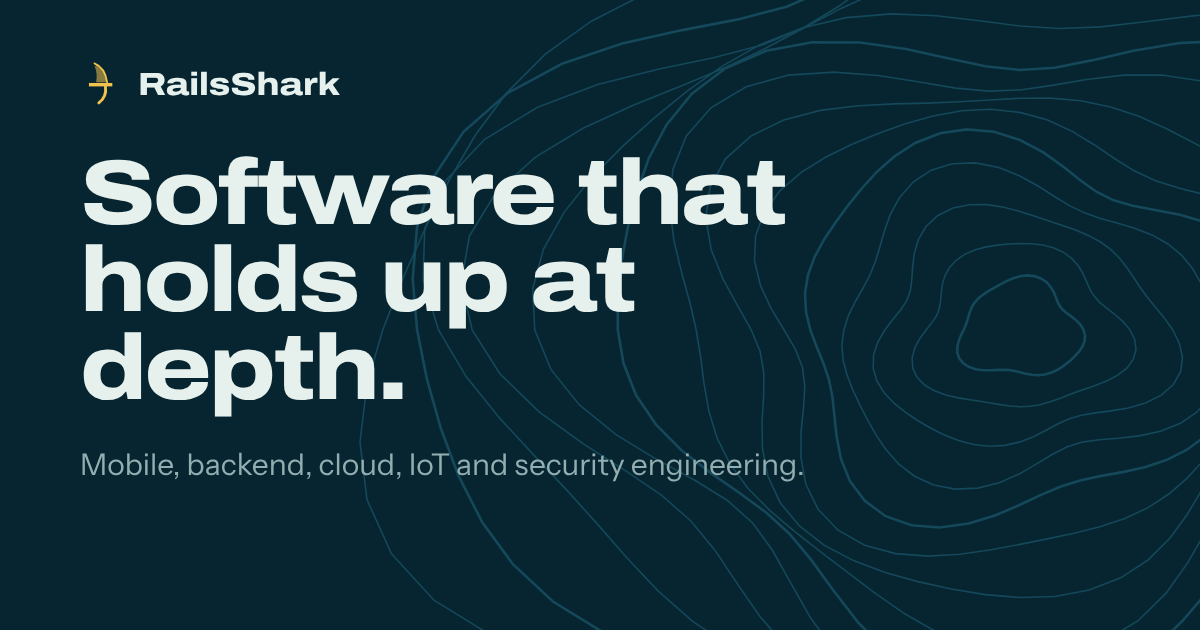
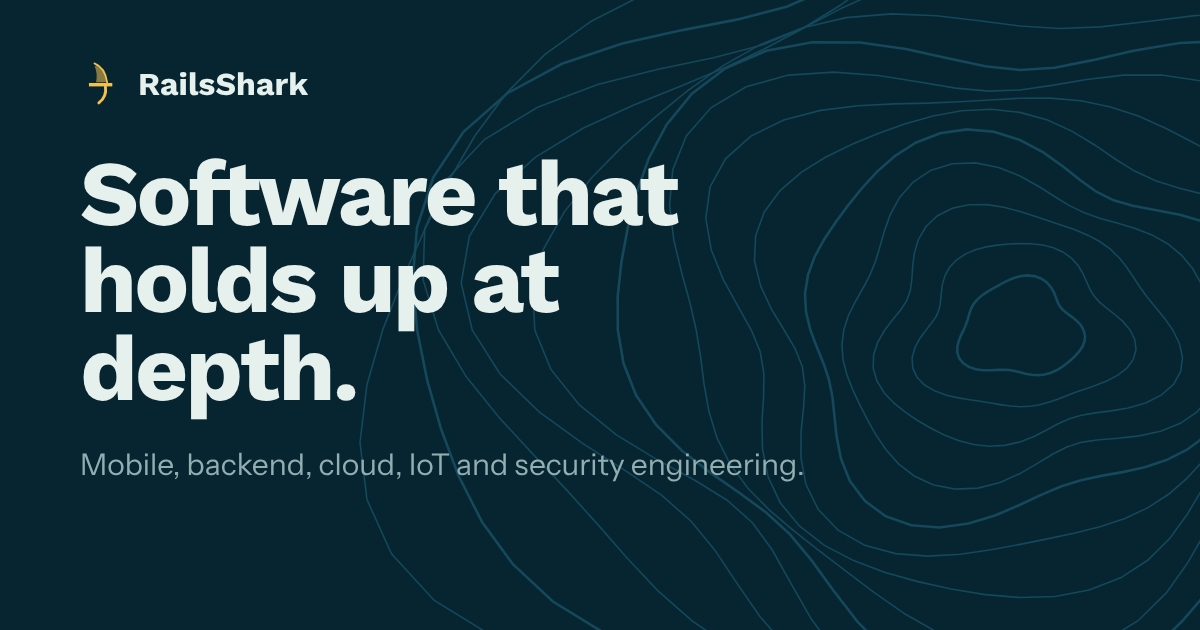
Switch to Work Sans headings and Nunito numbers, drop italics
Headings now use Work Sans 700 and the big stats and results use
Nunito 800, both self-hosted; Archivo moves to an optional design-lab
pairing. Numbers are upright everywhere. Hero, footer and meta
description now say "teams and institutions". Social preview image
regenerated in the new heading font.

Claude-Session: https://claude.ai/code/session_018bG2MKn1vgfGuHbLjA7fD8

Changed region(s): [[0.0617, 0.3921, 0.5242, 0.6635], [0.0617, 0.2413, 0.6783, 0.3619], [0.1233, 0.0905, 0.2775, 0.1508]]

diff --git a/site/src/lib/themes.ts b/site/src/lib/themes.ts
@@ -1,5 +1,5 @@
 /**
- * Design lab definitions. Production ships only the default (Abyss + Chart)
+ * Design lab definitions. Production ships only the default (Abyss + Work Sans)
  * through tokens.css; everything here is loaded only when the lab is open.
  */
 export type Mode = 'dark' | 'light';
@@ -69,18 +69,26 @@ export interface FontPair {
   /** font-stretch for display text; only variable-width families use it. */
   stretch: string;
   weight: number;
+  /** Face, stretch and weight for big numbers. */
+  figures: string;
+  figuresStretch: string;
+  figuresWeight: number;
   /** Google Fonts css2 query. Empty for the self-hosted default. */
   google: string;
 }
 
+const NUNITO = "'Nunito Variable', sans-serif";
+
 export const fontPairs: FontPair[] = [
-  { id: 'chart', name: 'Archivo Expanded + Instrument Sans', display: "'Archivo Variable', sans-serif", body: "'Instrument Sans Variable', sans-serif", stretch: '118%', weight: 800, google: '' },
-  { id: 'bricolage', name: 'Bricolage Grotesque + Instrument Sans', display: "'Bricolage Grotesque', sans-serif", body: "'Instrument Sans Variable', sans-serif", stretch: '100%', weight: 750, google: 'family=Bricolage+Grotesque:opsz,wght@12..96,400..800' },
-  { id: 'fraunces', name: 'Fraunces + Source Sans 3', display: "'Fraunces', serif", body: "'Source Sans 3', sans-serif", stretch: '100%', weight: 650, google: 'family=Fraunces:opsz,wght@9..144,400..800&family=Source+Sans+3:wght@400..700' },
-  { id: 'sora', name: 'Sora', display: "'Sora', sans-serif", body: "'Sora', sans-serif", stretch: '100%', weight: 700, google: 'family=Sora:wght@300..800' },
-  { id: 'plex', name: 'IBM Plex Sans', display: "'IBM Plex Sans', sans-serif", body: "'IBM Plex Sans', sans-serif", stretch: '100%', weight: 650, google: 'family=IBM+Plex+Sans:wght@400..700' },
-  { id: 'syne', name: 'Syne + Manrope', display: "'Syne', sans-serif", body: "'Manrope', sans-serif", stretch: '100%', weight: 800, google: 'family=Syne:wght@500..800&family=Manrope:wght@400..700' },
-  { id: 'newsreader', name: 'Newsreader + Public Sans', display: "'Newsreader', serif", body: "'Public Sans', sans-serif", stretch: '100%', weight: 600, google: 'family=Newsreader:opsz,wght@6..72,400..700&family=Public+Sans:wght@400..700' },
+  { id: 'work', name: 'Work Sans + Nunito numbers', display: "'Work Sans Variable', sans-serif", body: "'Instrument Sans Variable', sans-serif", stretch: '100%', weight: 700, figures: NUNITO, figuresStretch: '100%', figuresWeight: 800, google: '' },
+  { id: 'chart', name: 'Archivo Expanded + Instrument Sans', display: "'Archivo', sans-serif", body: "'Instrument Sans Variable', sans-serif", stretch: '118%', weight: 800, figures: "'Archivo', sans-serif", figuresStretch: '118%', figuresWeight: 700, google: 'family=Archivo:wdth,wght@62..125,100..900' },
+  { id: 'dmsans', name: 'DM Sans + Nunito numbers', display: "'DM Sans', sans-serif", body: "'Instrument Sans Variable', sans-serif", stretch: '100%', weight: 700, figures: NUNITO, figuresStretch: '100%', figuresWeight: 800, google: 'family=DM+Sans:opsz,wght@9..40,400..800' },
+  { id: 'bricolage', name: 'Bricolage Grotesque + Instrument Sans', display: "'Bricolage Grotesque', sans-serif", body: "'Instrument Sans Variable', sans-serif", stretch: '100%', weight: 750, figures: "'Bricolage Grotesque', sans-serif", figuresStretch: '100%', figuresWeight: 700, google: 'family=Bricolage+Grotesque:opsz,wght@12..96,400..800' },
+  { id: 'fraunces', name: 'Fraunces + Source Sans 3', display: "'Fraunces', serif", body: "'Source Sans 3', sans-serif", stretch: '100%', weight: 650, figures: "'Fraunces', serif", figuresStretch: '100%', figuresWeight: 650, google: 'family=Fraunces:opsz,wght@9..144,400..800&family=Source+Sans+3:wght@400..700' },
+  { id: 'sora', name: 'Sora', display: "'Sora', sans-serif", body: "'Sora', sans-serif", stretch: '100%', weight: 700, figures: "'Sora', sans-serif", figuresStretch: '100%', figuresWeight: 700, google: 'family=Sora:wght@300..800' },
+  { id: 'plex', name: 'IBM Plex Sans', display: "'IBM Plex Sans', sans-serif", body: "'IBM Plex Sans', sans-serif", stretch: '100%', weight: 650, figures: "'IBM Plex Sans', sans-serif", figuresStretch: '100%', figuresWeight: 650, google: 'family=IBM+Plex+Sans:wght@400..700' },
+  { id: 'syne', name: 'Syne + Manrope', display: "'Syne', sans-serif", body: "'Manrope', sans-serif", stretch: '100%', weight: 800, figures: "'Syne', sans-serif", figuresStretch: '100%', figuresWeight: 700, google: 'family=Syne:wght@500..800&family=Manrope:wght@400..700' },
+  { id: 'newsreader', name: 'Newsreader + Public Sans', display: "'Newsreader', serif", body: "'Public Sans', sans-serif", stretch: '100%', weight: 600, figures: "'Newsreader', serif", figuresStretch: '100%', figuresWeight: 600, google: 'family=Newsreader:opsz,wght@6..72,400..700&family=Public+Sans:wght@400..700' },
 ];
 
 export const radii = [
@@ -106,7 +114,7 @@ export const defaults = {
   palette: 'abyss',
   mode: 'dark' as Mode,
   accent: '',
-  font: 'chart',
+  font: 'work',
   radius: 'soft',
   density: 'regular',
   scale: 'major-third',

diff --git a/site/src/styles/global.css b/site/src/styles/global.css
@@ -1,4 +1,5 @@
-@import '@fontsource-variable/archivo/wdth.css';
+@import '@fontsource-variable/work-sans/wght.css';
+@import '@fontsource-variable/nunito/wght.css';
 @import '@fontsource-variable/instrument-sans/wdth.css';
 
 /* ---------- Tokens (default: Abyss palette, Chart type) ---------- */
@@ -13,10 +14,14 @@
   --accent: #f2c14e;
   --onAccent: #1d1600;
 
-  --font-display: 'Archivo Variable', 'Arial Narrow', sans-serif;
+  --font-display: 'Work Sans Variable', system-ui, sans-serif;
   --font-body: 'Instrument Sans Variable', system-ui, sans-serif;
-  --display-stretch: 118%;
-  --display-weight: 800;
+  --display-stretch: 100%;
+  --display-weight: 700;
+  /* Big numbers (stats, results). */
+  --font-figures: 'Nunito Variable', system-ui, sans-serif;
+  --figures-stretch: 100%;
+  --figures-weight: 800;
 
   --radius: 6px;
   --density: 1;

diff --git a/site/src/scripts/lab.ts b/site/src/scripts/lab.ts
@@ -53,6 +53,9 @@ function commonVars(state: LabState) {
     '--font-body': f.body,
     '--display-stretch': f.stretch,
     '--display-weight': String(f.weight),
+    '--font-figures': f.figures,
+    '--figures-stretch': f.figuresStretch,
+    '--figures-weight': String(f.figuresWeight),
     '--radius': (radii.find((x) => x.id === state.radius) || radii[1]).value,
     '--density': (densities.find((x) => x.id === state.density) || densities[1]).value,
     '--ratio': (scales.find((x) => x.id === state.scale) || scales[1]).value,

diff --git a/site/src/config/site.ts b/site/src/config/site.ts
@@ -13,7 +13,7 @@ export const site = {
   location: 'Islamabad, Pakistan',
   tagline: 'Software engineering studio',
   description:
-    'RailsShark designs, builds and runs mobile apps, backends, cloud infrastructure and connected devices for teams worldwide.',
+    'RailsShark designs, builds and runs mobile apps, backends, cloud infrastructure and connected devices for teams and institutions worldwide.',
 
   contact: {
     /** Placeholder until a domain mailbox exists. */
